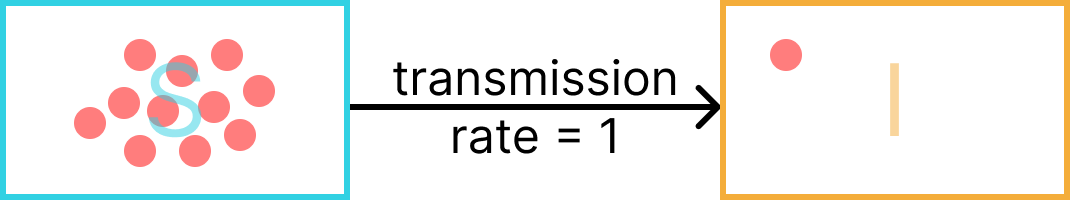
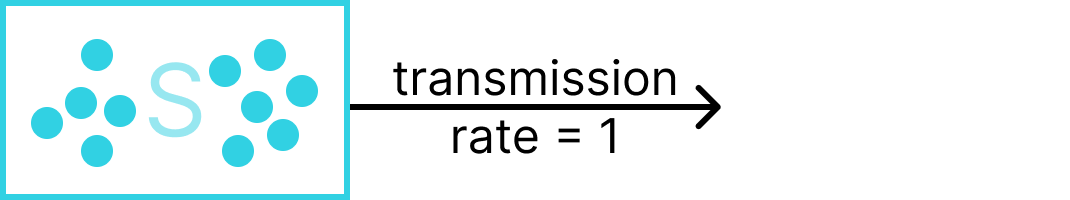
major improvements to sir story, changed colouring of compartment examples, changed bold text and line break handling, added line breaks and bold texts to sir story

diff --git a/app/frontend/infection-visualizer/src/app/component/story/story.component.html b/app/frontend/infection-visualizer/src/app/component/story/story.component.html
@@ -1,26 +1,49 @@
 <div *ngIf="slide" class="story-container">
-  <mat-progress-bar mode="determinate" value="{{((currentSlide + 1) * 100) / totalSlides}}"></mat-progress-bar>
-  <div style="display: flex; align-items: center; justify-content: space-between; padding: 0 1rem;">
+  <mat-progress-bar
+    mode="determinate"
+    [value]="((currentSlide + 1) * 100) / totalSlides"
+  ></mat-progress-bar>
+
+  <div
+    style="display: flex; align-items: center; justify-content: space-between; padding: 0 1rem;"
+  >
     <h2>{{ title }}</h2>
     <a>Slide {{ currentSlide + 1 }} of {{ totalSlides }}</a>
   </div>
+
   <div class="slide" style="justify-content: center">
-    <p style="display: flex; justify-content: center; text-align: center; padding: 0 1rem; white-space: pre-line;" [innerHTML]="slide.text">
-      {{ slide.text }}
-    </p>
-    <img 
-      *ngIf="imagePath != 'http://localhost:8000/static/images/'" 
-      [src]="imagePath" 
-      alt="Slide image" 
-      style="max-width: 600px; max-height: 400px; width: auto; height: auto; display: block; margin: 0 auto;" 
+    <!-- Story text -->
+    <div
+      class="story-text"
+      style="display: flex; flex-direction: column; align-items: center; text-align: center;"
+      *ngIf="slide?.text as t"
+    >
+      <ng-container *ngFor="let line of tokenizeLines(t); let i = index">
+        <p style="margin: 0rem 1rem;">
+          <ng-container *ngFor="let token of line">
+            <strong *ngIf="token.bold">{{ token.text }}</strong>
+            <ng-container *ngIf="!token.bold">{{ token.text }}</ng-container>
+          </ng-container>
+        </p>
+      </ng-container>
+    </div>
+
+    <!-- Slide image -->
+    <img
+      *ngIf="imagePath != 'http://localhost:8000/static/images/'"
+      [src]="imagePath"
+      alt="Slide image"
+      style="max-width: 600px; max-height: 400px; width: auto; height: auto; display: block; margin: 0 auto; margin-top: 1rem;"
     />
 
-
-    <!-- Container for up to three components on the story page -->
-    <div *ngIf="showVis1 || showVis2 || showSliders" style="display: flex; justify-content: center; gap: 2rem; margin-top: 2rem;">
+    <!-- Visualizations / sliders -->
+    <div
+      *ngIf="showVis1 || showVis2 || showSliders"
+      style="display: flex; justify-content: center; gap: 2rem; margin-top: 2rem;"
+    >
       <!-- Visualization 1 -->
       <app-visualization-wrapper
-        [vis]="this.vis1"
+        [vis]="vis1"
         [data]="infectionTreeData"
         [showVis]="showVis1"
         (fetchData)="handleWrapperFetch()"
@@ -28,7 +51,7 @@
 
       <!-- Visualization 2 -->
       <app-visualization-wrapper
-        [vis]="this.vis2"
+        [vis]="vis2"
         [data]="infectionTreeData"
         [showVis]="showVis2"
         (fetchData)="handleWrapperFetch()"
@@ -36,28 +59,45 @@
 
       <!-- Sliders -->
       <app-slider-wrapper
-        [showSliders]="this.showSliders"
-        [sliders]="this.sliders"
+        [showSliders]="showSliders"
+        [sliders]="sliders"
         (sliderValuesChange)="handleSliderValues($event)"
       ></app-slider-wrapper>
     </div>
   </div>
 
+  <!-- Source -->
   <div *ngIf="slide.source">
-    <p>*= {{this.slide.source}}</p>
+    <p>*= {{ slide.source }}</p>
   </div>
 
+  <!-- Navigation -->
   <div class="slide-nav">
-    <button class="btn btn-secondary" (click)="prevSlide()" [disabled]="currentSlide === 0">Previous</button>
+    <button
+      class="btn btn-secondary"
+      (click)="prevSlide()"
+      [disabled]="currentSlide === 0"
+    >
+      Previous
+    </button>
+
     @if (currentSlide < totalSlides - 1) {
-      <button class="btn btn-primary" (click)="nextSlide()" [disabled]="currentSlide === totalSlides - 1">Next</button>
+      <button
+        class="btn btn-primary"
+        (click)="nextSlide()"
+        [disabled]="currentSlide === totalSlides - 1"
+      >
+        Next
+      </button>
     } @else {
       <button
         class="btn btn-primary"
         [routerLink]="['/quiz', storyId]"
         [queryParams]="{ page: 0 }"
         [disabled]="currentSlide !== totalSlides - 1"
-      > Take Quiz </button>
+      >
+        Take Quiz
+      </button>
     }
   </div>
 </div>

diff --git a/app/frontend/infection-visualizer/src/app/component/story/story.component.ts b/app/frontend/infection-visualizer/src/app/component/story/story.component.ts
@@ -13,6 +13,8 @@ import {SliderWrapperComponent} from '../slider-wrapper/slider-wrapper.component
 import { EpiModelService } from '../../service/epi-model.service';
 import { CoinFlipService } from '../../service/coin-flip.service';
 
+type Token = { text: string; bold: boolean };
+
 @Component({
   selector: 'app-story',
   standalone: true,
@@ -46,6 +48,39 @@ export class StoryComponent implements OnInit {
     private route: ActivatedRoute,
     private router: Router
   ) {}
+
+tokenizeLines(value?: string | null): Token[][] {
+  if (!value) return [];
+
+  const normalized = value
+    .replace(/\r\n/g, '\n')
+    .replace(/\r/g, '\n')
+    .replace(/\\n/g, '\n');
+
+  const boldRegex = /\*\*(.+?)\*\*/g;
+
+  return normalized.split('\n').map(line => {
+    const tokens: Token[] = [];
+    let lastIndex = 0;
+    let match: RegExpExecArray | null;
+
+    while ((match = boldRegex.exec(line)) !== null) {
+      if (match.index > lastIndex) {
+        tokens.push({ text: line.slice(lastIndex, match.index), bold: false });
+      }
+      tokens.push({ text: match[1], bold: true });
+      lastIndex = match.index + match[0].length;
+    }
+    if (lastIndex < line.length) {
+      tokens.push({ text: line.slice(lastIndex), bold: false });
+    }
+
+    boldRegex.lastIndex = 0;
+    return tokens.length ? tokens : [{ text: '', bold: false }];
+  });
+}
+
+
   ngOnInit(): void {
     this.showSliders = false;
     this.route.paramMap.subscribe(params => {
